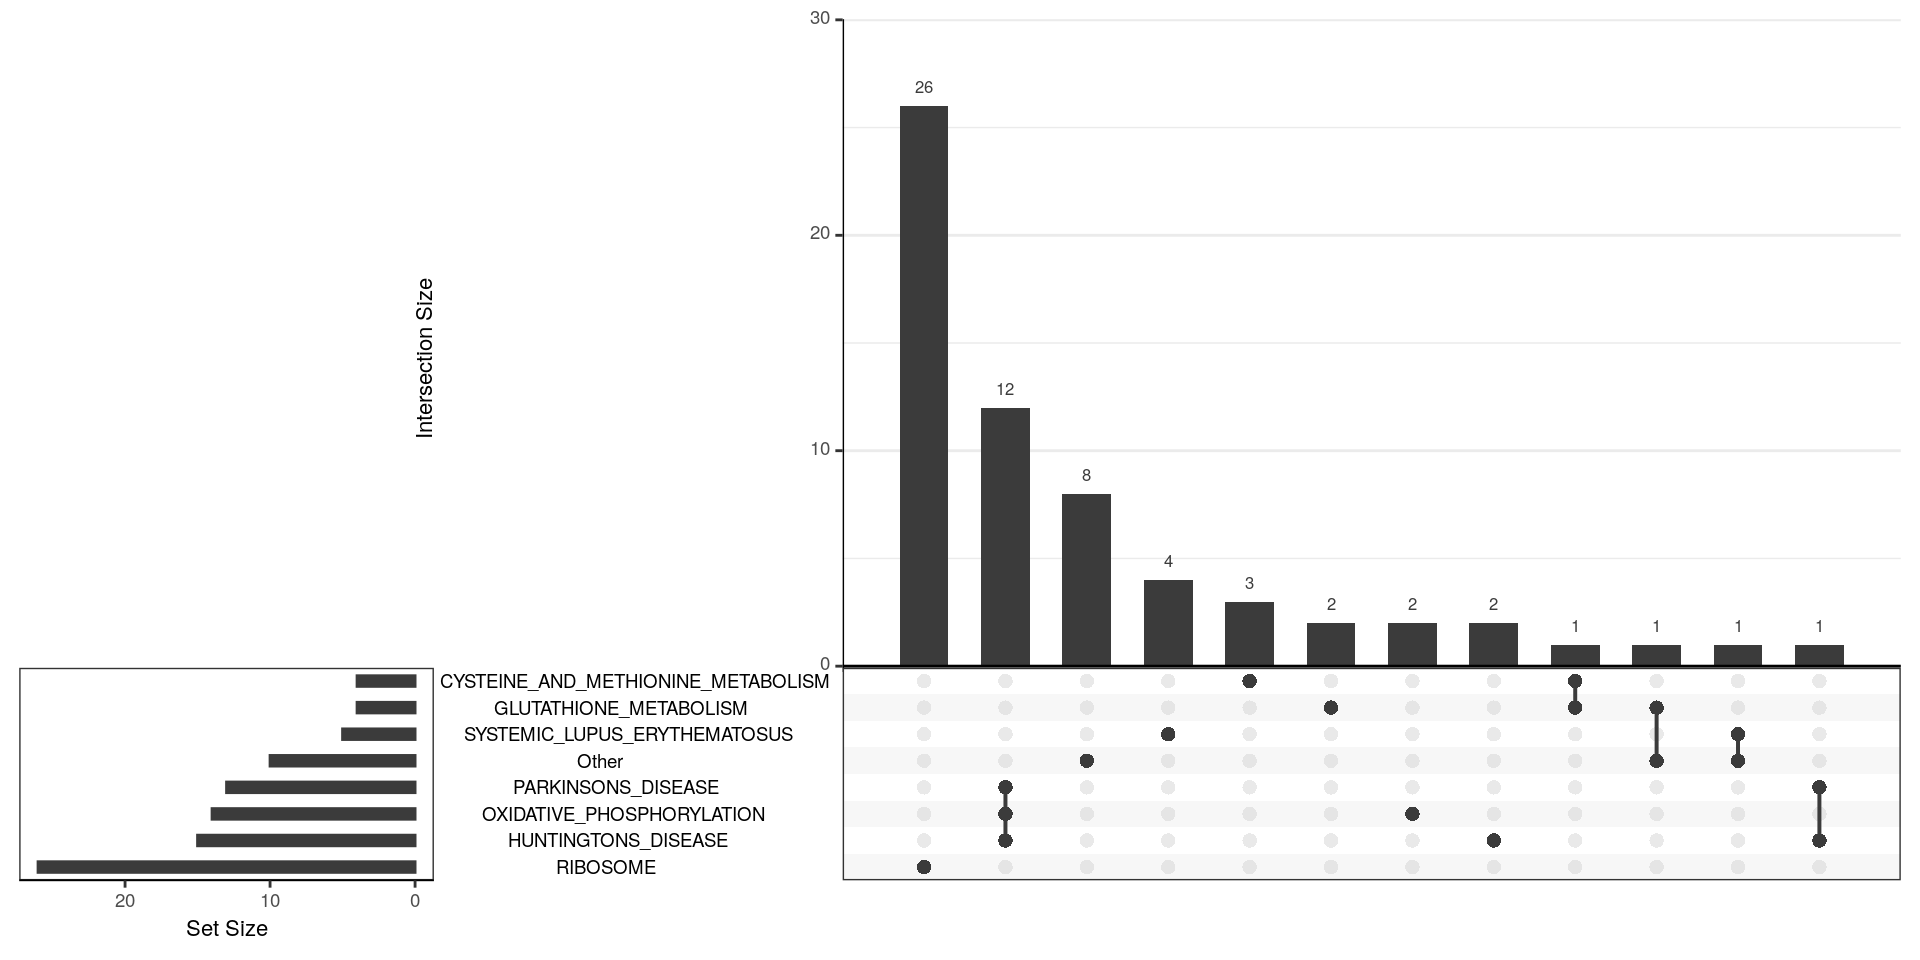
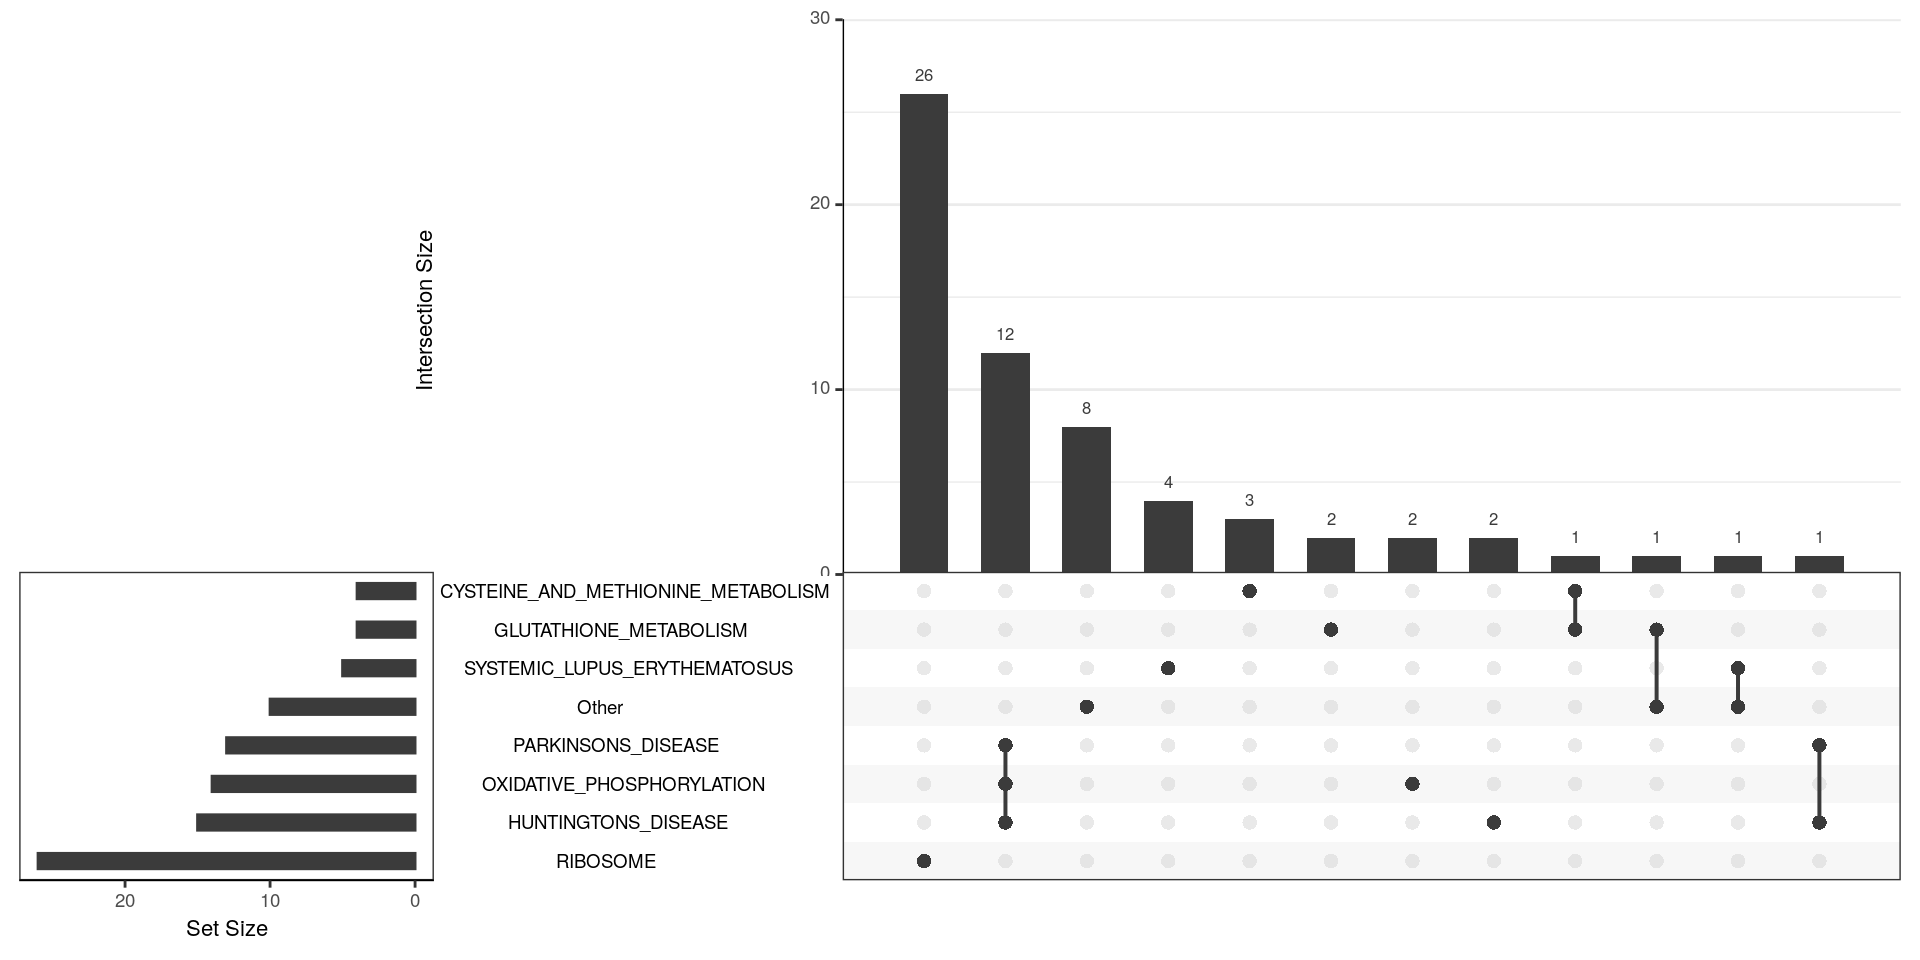
Recompiled

diff --git a/docs/3_Enrichment_MutantVsWT.html b/docs/3_Enrichment_MutantVsWT.html
@@ -503,10 +503,10 @@ This reproducible <a href="http://rmarkdown.rstudio.com">R Markdown</a> analysis
 <div class="panel panel-default">
 <div class="panel-heading">
 <p class="panel-title">
-<a data-toggle="collapse" data-parent="#workflowr-checks" href="#strongRepositoryversionstrongahrefhttpsgithubcomUofABioinformaticsHub20170327Psen2S4TerRNASeqtreede9c4b30542683957dc03d9ed779638e162750c5targetblankde9c4b3a"> <span class="glyphicon glyphicon-ok text-success" aria-hidden="true"></span> <strong>Repository version:</strong> <a href="https://github.com/UofABioinformaticsHub/20170327_Psen2S4Ter_RNASeq/tree/de9c4b30542683957dc03d9ed779638e162750c5" target="_blank">de9c4b3</a> </a>
+<a data-toggle="collapse" data-parent="#workflowr-checks" href="#strongRepositoryversionstrongahrefhttpsgithubcomUofABioinformaticsHub20170327Psen2S4TerRNASeqtree4ede7527068c637893720c4e3e9511258b136320targetblank4ede752a"> <span class="glyphicon glyphicon-ok text-success" aria-hidden="true"></span> <strong>Repository version:</strong> <a href="https://github.com/UofABioinformaticsHub/20170327_Psen2S4Ter_RNASeq/tree/4ede7527068c637893720c4e3e9511258b136320" target="_blank">4ede752</a> </a>
 </p>
 </div>
[2 lines of base64/hex data omitted]
 <div class="panel-body">
 <p>
 Great! You are using Git for version control. Tracking code development and connecting the code version to the results is critical for reproducibility. The version displayed above was the version of the Git repository at the time these results were generated. <br><br> Note that you need to be careful to ensure that all relevant files for the analysis have been committed to Git prior to generating the results (you can use <code>wflow_publish</code> or <code>wflow_git_commit</code>). workflowr only checks the R Markdown file, but you know if there are other scripts or data files that it depends on. Below is the status of the Git repository when the results were generated:
@@ -553,6 +553,40 @@ Message
 </tr>
 </thead>
 <tbody>
+<tr>
+<td>
+Rmd
+</td>
+<td>
+<a href="https://github.com/UofABioinformaticsHub/20170327_Psen2S4Ter_RNASeq/blob/4ede7527068c637893720c4e3e9511258b136320/analysis/3_Enrichment_MutantVsWT.Rmd" target="_blank">4ede752</a>
+</td>
+<td>
+Steve Ped
+</td>
+<td>
+2020-02-20
+</td>
+<td>
+Added headings
+</td>
+</tr>
+<tr>
+<td>
+html
+</td>
+<td>
+<a href="https://rawcdn.githack.com/UofABioinformaticsHub/20170327_Psen2S4Ter_RNASeq/01688249b9535123903e827dfd11a894c24ce8d8/docs/3_Enrichment_MutantVsWT.html" target="_blank">0168824</a>
+</td>
+<td>
+Steve Ped
+</td>
+<td>
+2020-02-20
+</td>
+<td>
+Rebult after resizing
+</td>
+</tr>
 <tr>
 <td>
 Rmd
@@ -1522,6 +1556,8 @@ np &lt;- 1e5</code></pre>
 </tr>
 </tbody>
 </table>
+<div id="exploration-of-significant-hallmark-gene-sets" class="section level3">
+<h3>Exploration of significant Hallmark Gene Sets</h3>
 <pre class="r"><code>hmMeta %&gt;% 
   dplyr::filter(nDE &gt; 0, FDR &lt; 0.05) %&gt;%
   dplyr::select(gs_name, DE) %&gt;%
@@ -1535,12 +1571,13 @@ np &lt;- 1e5</code></pre>
   fromList() %&gt;% 
   upset(
     nsets = length(.), 
-    order.by = &quot;freq&quot;
+    order.by = &quot;freq&quot;, 
+    mb.ratio = c(0.6, 0.4)
     )</code></pre>
 <div class="figure" style="text-align: center">
-<img src="figure/3_Enrichment_MutantVsWT.Rmd/hmMetaUpset-1.png" alt="*UpSet plot indicating distribution of DE genes within all significant terms from the HALLMARK gene sets. Most terms seem relatively independent of each other.*" width="960" />
+<img src="figure/3_Enrichment_MutantVsWT.Rmd/hmMetaUpset-1.png" alt="*UpSet plot indicating distribution of DE genes within all significant HALLMARK gene sets. Most gene sets seem relatively independent of each other.*" width="960" />
 <p class="caption">
-<em>UpSet plot indicating distribution of DE genes within all significant terms from the HALLMARK gene sets. Most terms seem relatively independent of each other.</em>
+<em>UpSet plot indicating distribution of DE genes within all significant HALLMARK gene sets. Most gene sets seem relatively independent of each other.</em>
 </p>
 </div>
 <p>
@@ -1630,9 +1667,9 @@ hmHeat %&gt;%
       )
   )</code></pre>
 <div class="figure" style="text-align: center">
-<img src="figure/3_Enrichment_MutantVsWT.Rmd/hmHeat-1.png" alt="*Gene expression patterns for all DE genes in HALLMARK genes sets, containing more than 5 DE genes.*" width="960" />
+<img src="figure/3_Enrichment_MutantVsWT.Rmd/hmHeat-1.png" alt="*Gene expression patterns for all DE genes in HALLMARK gene sets, containing more than 5 DE genes.*" width="960" />
 <p class="caption">
-<em>Gene expression patterns for all DE genes in HALLMARK genes sets, containing more than 5 DE genes.</em>
+<em>Gene expression patterns for all DE genes in HALLMARK gene sets, containing more than 5 DE genes.</em>
 </p>
 </div>
 <p>
@@ -1670,6 +1707,7 @@ Steve Ped
 </tr>
 </tbody>
 </table>
+</div>
 </div>
 </div>
 </div>
@@ -1879,6 +1917,8 @@ Steve Ped
 </tr>
 </tbody>
 </table>
+<div id="exploration-of-significant-kegg-gene-sets" class="section level3">
+<h3>Exploration of Significant KEGG Gene Sets</h3>
 <pre class="r"><code>kgMeta %&gt;% 
   dplyr::filter(nDE &gt; 0, FDR &lt; 0.05) %&gt;%
   dplyr::select(gs_name, DE) %&gt;%
@@ -1892,7 +1932,8 @@ Steve Ped
   fromList() %&gt;% 
   upset(
     nsets = length(.), 
-    order.by = &quot;freq&quot;
+    order.by = &quot;freq&quot;,
+    mb.ratio = c(0.6, 0.4)
     )</code></pre>
 <div class="figure" style="text-align: center">
 <img src="figure/3_Enrichment_MutantVsWT.Rmd/kgMetaUpset-1.png" alt="*UpSet plot indicating distribution of DE genes within all significant terms from the KEGG gene sets. There is considerable overlap between Oxidative Phosphorylation and both Parkinson's and Huntington's Disease, indicating that these terms essentially capture the same signal.*" width="960" />
@@ -1983,9 +2024,9 @@ riboOx %&gt;%
     cutree_rows = 5
   )</code></pre>
 <div class="figure" style="text-align: center">
-<img src="figure/3_Enrichment_MutantVsWT.Rmd/riboOxHeatmap-1.png" alt="*Given that the largest gene sets within the KEGG results were Oxidative Phosphorylation and Ribosomal gene sets, all DE genes associated with these KEGG terms are displayed below. All genes appear to show increased expression in mutant samples.*" width="768" />
+<img src="figure/3_Enrichment_MutantVsWT.Rmd/riboOxHeatmap-1.png" alt="*Given that the largest gene sets within the KEGG results were Oxidative Phosphorylation and Ribosomal gene sets, all DE genes associated with these KEGG terms are displayed. All genes appear to show increased expression in mutant samples.*" width="768" />
 <p class="caption">
-<em>Given that the largest gene sets within the KEGG results were Oxidative Phosphorylation and Ribosomal gene sets, all DE genes associated with these KEGG terms are displayed below. All genes appear to show increased expression in mutant samples.</em>
+<em>Given that the largest gene sets within the KEGG results were Oxidative Phosphorylation and Ribosomal gene sets, all DE genes associated with these KEGG terms are displayed. All genes appear to show increased expression in mutant samples.</em>
 </p>
 </div>
 <p>
@@ -2023,6 +2064,7 @@ Steve Ped
 </tr>
 </tbody>
 </table>
+</div>
 </div>
 </div>
 </div>
@@ -3017,6 +3059,8 @@ Steve Ped
 </tr>
 </tbody>
 </table>
+<div id="exploration-of-significant-go-gene-sets" class="section level3">
+<h3>Exploration of Significant GO Gene Sets</h3>
 <pre class="r"><code>goMeta %&gt;% 
   dplyr::filter(nDE &gt;= 25, FDR &lt; 0.05) %&gt;%
   dplyr::select(gs_name, DE) %&gt;%
@@ -3034,9 +3078,9 @@ Steve Ped
     mb.ratio = c(0.55, 0.45)
   )</code></pre>
 <div class="figure" style="text-align: center">
-<img src="figure/3_Enrichment_MutantVsWT.Rmd/goMetaUpset-1.png" alt="*UpSet plot indicating distribution of DE genes within significant terms from the GO gene sets. Gene sets were restricted to those with 25 or more DE genes and an FDR &lt; 0.05. A group of 47 genes is widely spread across multiple terms, whilst a group of 25 genes is shared by a large group of terms, indicating that these genes largely drive the signal for these terms. These genes tend to indicate Ribosomal activity. However, a set of 20 genes seems to more uniquely indicate dsDNA binding, whilst another 15 indicate organo-nitrogen biosynthesis, and a further set of 22 DE genes are predominantly associated with the mitochondrial envelope.*" width="960" />
+<img src="figure/3_Enrichment_MutantVsWT.Rmd/goMetaUpset-1.png" alt="*UpSet plot indicating distribution of DE genes within significant terms from the GO gene sets. For this visualisation, GO terms were restricted to those with 25 or more DE genes and an FDR &lt; 0.05. A group of 47 genes is widely spread across multiple terms, whilst a group of 25 genes is shared by a large group of terms, indicating that these genes largely drive the signal for these terms. These genes tend to indicate Ribosomal activity. However, a set of 20 genes seems to more uniquely indicate dsDNA binding, whilst another 15 indicate organo-nitrogen biosynthesis, and a further set of 22 DE genes are predominantly associated with the mitochondrial envelope.*" width="960" />
 <p class="caption">
-<em>UpSet plot indicating distribution of DE genes within significant terms from the GO gene sets. Gene sets were restricted to those with 25 or more DE genes and an FDR &lt; 0.05. A group of 47 genes is widely spread across multiple terms, whilst a group of 25 genes is shared by a large group of terms, indicating that these genes largely drive the signal for these terms. These genes tend to indicate Ribosomal activity. However, a set of 20 genes seems to more uniquely indicate dsDNA binding, whilst another 15 indicate organo-nitrogen biosynthesis, and a further set of 22 DE genes are predominantly associated with the mitochondrial envelope.</em>
+<em>UpSet plot indicating distribution of DE genes within significant terms from the GO gene sets. For this visualisation, GO terms were restricted to those with 25 or more DE genes and an FDR &lt; 0.05. A group of 47 genes is widely spread across multiple terms, whilst a group of 25 genes is shared by a large group of terms, indicating that these genes largely drive the signal for these terms. These genes tend to indicate Ribosomal activity. However, a set of 20 genes seems to more uniquely indicate dsDNA binding, whilst another 15 indicate organo-nitrogen biosynthesis, and a further set of 22 DE genes are predominantly associated with the mitochondrial envelope.</em>
 </p>
 </div>
 <p>
@@ -3063,6 +3107,17 @@ Date
 <tbody>
 <tr>
 <td>
+<a href="https://github.com/UofABioinformaticsHub/20170327_Psen2S4Ter_RNASeq/blob/01688249b9535123903e827dfd11a894c24ce8d8/docs/figure/3_Enrichment_MutantVsWT.Rmd/goMetaUpset-1.png" target="_blank">0168824</a>
+</td>
+<td>
+Steve Ped
+</td>
+<td>
+2020-02-20
+</td>
+</tr>
+<tr>
+<td>
 <a href="https://github.com/UofABioinformaticsHub/20170327_Psen2S4Ter_RNASeq/blob/86ffa07adc34510ac982dcb32159b051f50a7b9a/docs/figure/3_Enrichment_MutantVsWT.Rmd/goMetaUpset-1.png" target="_blank">86ffa07</a>
 </td>
 <td>
@@ -3074,6 +3129,7 @@ Steve Ped
 </tr>
 </tbody>
 </table>
+</div>
 </div>
 </div>
 <div id="genes-associated-with-dsdna-binding" class="section level3">
@@ -3141,6 +3197,17 @@ Date
 </tr>
 </thead>
 <tbody>
+<tr>
+<td>
+<a href="https://github.com/UofABioinformaticsHub/20170327_Psen2S4Ter_RNASeq/blob/01688249b9535123903e827dfd11a894c24ce8d8/docs/figure/3_Enrichment_MutantVsWT.Rmd/heatDsDNA-1.png" target="_blank">0168824</a>
+</td>
+<td>
+Steve Ped
+</td>
+<td>
+2020-02-20
+</td>
+</tr>
 <tr>
 <td>
 <a href="https://github.com/UofABioinformaticsHub/20170327_Psen2S4Ter_RNASeq/blob/86ffa07adc34510ac982dcb32159b051f50a7b9a/docs/figure/3_Enrichment_MutantVsWT.Rmd/heatDsDNA-1.png" target="_blank">86ffa07</a>
@@ -3309,6 +3376,17 @@ Date
 </tr>
 </thead>
 <tbody>
+<tr>
+<td>
+<a href="https://github.com/UofABioinformaticsHub/20170327_Psen2S4Ter_RNASeq/blob/01688249b9535123903e827dfd11a894c24ce8d8/docs/figure/3_Enrichment_MutantVsWT.Rmd/heatOrganoNitro-1.png" target="_blank">0168824</a>
+</td>
+<td>
+Steve Ped
+</td>
+<td>
+2020-02-20
+</td>
+</tr>
 <tr>
 <td>
 <a href="https://github.com/UofABioinformaticsHub/20170327_Psen2S4Ter_RNASeq/blob/86ffa07adc34510ac982dcb32159b051f50a7b9a/docs/figure/3_Enrichment_MutantVsWT.Rmd/heatOrganoNitro-1.png" target="_blank">86ffa07</a>
